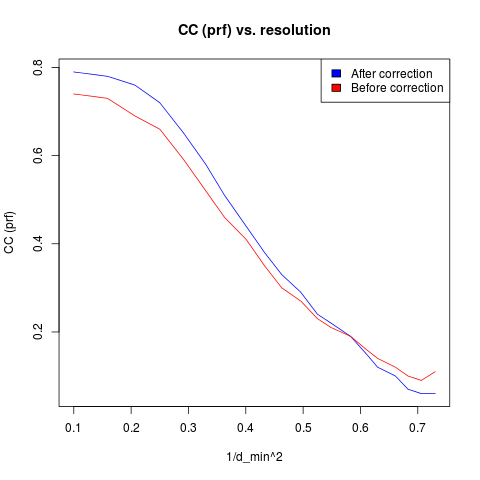
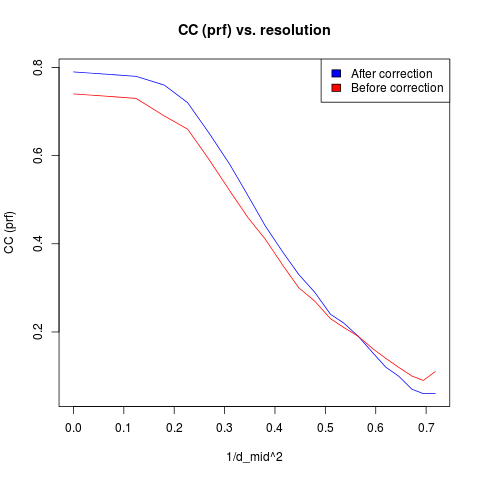
Use d_mid for shell, not d_min

diff --git a/sphinx/metrology_corrections.rst b/sphinx/metrology_corrections.rst
@@ -945,8 +945,8 @@ we can make a quick plot of the profile fitting correlation coeffients.
 
   .. image:: figures/CC_metrology_comparison.png
 
-From this we see the crossover point at about :math:`\frac{1}{d_\textrm{min}^2} = 0.6`
-or a resolution of about 1.3 Angstroms.
+From this we see the crossover point at about :math:`\frac{1}{d_\textrm{mid}^2} = 0.55`
+or a resolution of about 1.35 Angstroms.
 
 So, finally, we conclude that although we have the means to do metrology analysis
 and corrections
